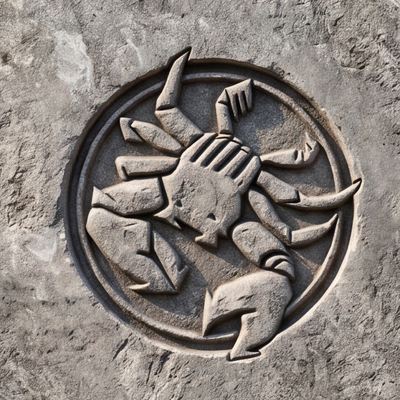
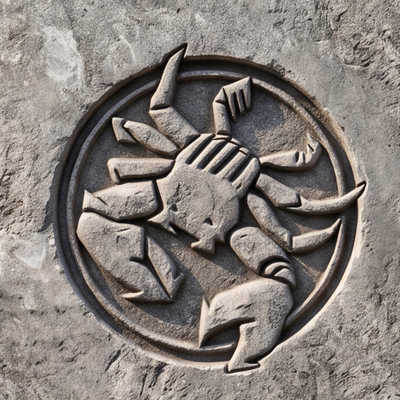
Recrop all medallion images with hand-tuned centers for better alignment

diff --git a/assets/crop_sprites.py b/assets/crop_sprites.py
@@ -1,35 +1,31 @@
 from PIL import Image
-import os
-
 img = Image.open(r'C:\Users\tanja\.gemini\antigravity\scratch\intrepid-map\assets\medallion-sprites.png')
 w, h = img.size
 cw, ch = w // 4, h // 3
-print(f"Image: {w}x{h}, Cell: {cw}x{ch}")
 
+# Hand-tuned centers for each carving (adjusted from pure grid centers)
 mapping = {
-    'defender':     (0, 0),
-    'lion':         (1, 0),
-    'water':        (2, 0),
-    'bull':         (3, 0),
-    'twins':        (0, 1),
-    'crab':         (1, 1),
-    'fate':         (2, 1),
-    'scorpion':     (3, 1),
-    'firesatyr':    (0, 2),
-    'goatfish':     (1, 2),
-    'furrow':       (2, 2),
-    'fish':         (3, 2),
+    'defender':  (620, 610),   # row0 col0 - archer shifted right
+    'lion':      (1800, 600),  # row0 col1 
+    'water':     (3000, 600),  # row0 col2
+    'bull':      (4170, 590),  # row0 col3 - bull shifted left slightly
+    'twins':     (590, 1790),  # row1 col0
+    'crab':      (1810, 1780), # row1 col1
+    'fate':      (3000, 1800), # row1 col2
+    'scorpion':  (4200, 1790), # row1 col3
+    'firesatyr': (600, 2990),  # row2 col0
+    'goatfish':  (1800, 2990), # row2 col1
+    'furrow':    (3000, 2990), # row2 col2
+    'fish':      (4200, 2990), # row2 col3
 }
 
+import os
 outdir = r'C:\Users\tanja\.gemini\antigravity\scratch\intrepid-map\assets\medallions'
-os.makedirs(outdir, exist_ok=True)
+half = 540  # crop radius
 
-for name, (col, row) in mapping.items():
-    cx = col * cw + cw // 2
-    cy = row * ch + ch // 2
-    half = min(cw, ch) // 2 - 30
-    box = (cx - half, cy - half, cx + half, cy + half)
+for name, (cx, cy) in mapping.items():
+    box = (max(0, cx - half), max(0, cy - half), min(w, cx + half), min(h, cy + half))
     crop = img.crop(box)
     crop = crop.resize((400, 400), Image.LANCZOS)
     crop.save(os.path.join(outdir, name + '.png'))
-    print(f'{name}: center=({cx},{cy}), saved 400x400')
+    print(f'{name}: center=({cx},{cy}), saved')
